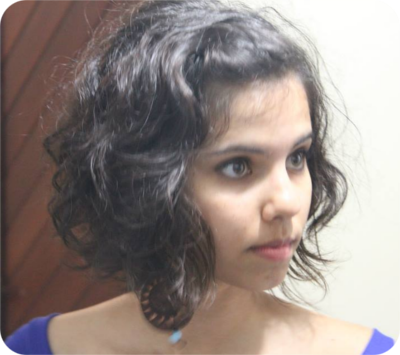
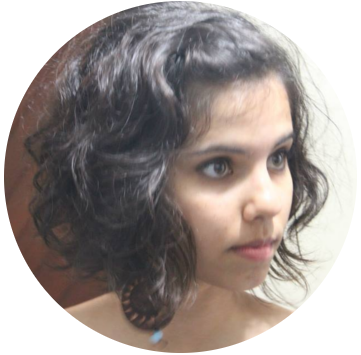
updates about text and style

diff --git a/about.html b/about.html
@@ -9,46 +9,43 @@
 
   <body>
     <div id="main">
-      <section>
-        <header>
-          <nav id="menu">
-            <ul>
-              <li><a href="/#">Home</a></li>
-              <li><a href="/about.html">About</a></li>
-              <li><a href="/archive.html">Archive</a></li>
-            </ul>
-          </nav>
-        </header>
-      </section>
+      <header>
+        <nav id="menu">
+          <ul>
+            <li><a href="/#">Home</a></li>
+          </ul>
+        </nav>
+      </header>
 
       <section>
         <div class="colleft">
-        <figure>
-          <img src="assets/images/amelie.png" alt="Katyanna Moura" />
-        </figure>
+          <div class="about-picture">
+            <img src="assets/images/amelie.png" alt="Katyanna Moura" />
+          </div>
         </div>
 
         <div class="colright">
           <h1>Katyanna Moura</h1>
-          <p>Gestora de Comércio e Negócios, já atuou com pesquisa no campo de Estratégia Empresarial no IFRN. Sócia dos maiores portais de Empregos e Estágios do RN, experiência em organização de grandes eventos, diretora de conteúdo e cofundadora da agência de publicidade Anu-Preto. Cursa Tecnologia da Informação na UFRN. Cofundadora do PyLadies Brasil.</p>
+          <p>I study Information Technology at the Universidade Federal do Rio Grande do Norte (UFRN). I am a <a href="http://brasil.pyladies.com/">PyLadies Brazil</a> co-founder and RuPy Natal organizer, currently working at Tribuna do Norte as a Software Development Intern.</p>
+
+          <div id="findme">
+            <a href="https://www.facebook.com/katyanna.moura">
+              <img src="assets/images/facebook.png" alt="Facebook">
+            </a>
+            <a href="https://github.com/katyanna">
+              <img src="assets/images/github.png" alt="Github">
+            </a>
+            <a href="https://twitter.com/amelie_kn">
+              <img src="assets/images/twitter.png" alt="Twitter">
+            </a>
+            <a href="https://plus.google.com/u/0/+KatyannaMoura">
+              <img src="assets/images/g+.png" alt="G+">
+            </a>
+            <a href="https://www.linkedin.com/in/katyannamoura">
+              <img src="assets/images/linkedin.png" alt="Linkedin">
+            </a>
+          </div>
         </div>
-	<div id="findme">
-	  <a href="https://www.facebook.com/katyanna.moura">
-            <img src="assets/images/facebook.png" alt="Facebook">
-          </a>
-          <a href="https://github.com/katyanna">
-            <img src="assets/images/github.png" alt="Github">
-          </a>
-          <a href="https://twitter.com/amelie_kn">
-            <img src="assets/images/twitter.png" alt="Twitter">
-          </a>
-          <a href="https://plus.google.com/u/0/+KatyannaMoura">
-            <img src="assets/images/g+.png" alt="G+">
-          </a>
-          <a href="https://www.linkedin.com/in/katyannamoura">
-            <img src="assets/images/linkedin.png" alt="Linkedin">
-          </a>
-	</div>
       </section>
     </div>
   </body>
